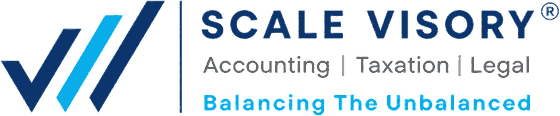
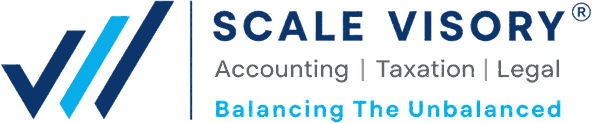
Put the login page back on the dashboard's palette
The brief's one real correction: "do NOT make the login page
predominantly cyan or bright blue" — navy primary, blue secondary, orange
rationed. Last round I took #1878e6 from the shared reference, which made
this screen a brighter blue than the app it opens.

The wordmark's accent is back to #2f6fb0 and every disc and glyph is back
on the app's own tokens (--brand-wash, --brand), so the screen inherits
the dashboard's palette instead of carrying a blue of its own. The
dark-theme override I had added exists no longer, because it existed only
to undo that hard-coded blue.

One orange, and only one: the Capture & Track disc, because that item IS
WhatsApp. The dashboard rations orange to the thing that acts — its own
mark and New Task — and a second orange here would spend the signal.
Unlock stays navy, which is what .btn.primary is everywhere else.

Also corrected while checking the brief's "do not stretch": the logo was
resized to 560x116, which is a 0.3% vertical squash of a 900x187
original. It is 592x123 now — a ratio error of 0.004% — from the same
untouched source file, with the intrinsic width/height attributes updated
on both the sign-in screen and the sidebar.

QA: 257 tests pass. 1600, 1366, 820, 390, 360 — no horizontal scroll, no
clipped text, mobile order logo → card → pitch → footer at all three
narrow widths. Login driven end to end in a browser: still works. The
security copy is the approved wording, and "encrypted" appears nowhere
[…]

diff --git a/wa-task-assistant/frontend/src/styles.css b/wa-task-assistant/frontend/src/styles.css
@@ -1606,12 +1606,12 @@ button.chip.ghost:hover { border-color: var(--brand); color: var(--brand); }
    * read as one block, and the split in the name is what makes it a wordmark
    * rather than a heading.
    */
-  --hero-blue: #1878e6;
+  --hero-blue: #2f6fb0;
 }
 @media (prefers-color-scheme: dark) {
-  :root:not([data-theme="light"]) .login-hero { --hero-blue: #6fb2f5; }
+  :root:not([data-theme="light"]) .login-hero { --hero-blue: #7cb1e4; }
 }
-:root[data-theme="dark"] .login-hero { --hero-blue: #6fb2f5; }
+:root[data-theme="dark"] .login-hero { --hero-blue: #7cb1e4; }
 /*
  * The logo's own geometry, oversized and nearly invisible: three diagonals at
  * the mark's angle, laid across the panel. Repeating-linear-gradient rather
@@ -1703,8 +1703,16 @@ button.chip.ghost:hover { border-color: var(--brand); color: var(--brand); }
 .hero-ico {
   flex: none; width: 44px; height: 44px; border-radius: 50%;
   display: grid; place-items: center;
-  background: #e4effc; color: #1878e6;
+  background: var(--brand-wash); color: var(--brand);
 }
+/*
+ * One orange, on the WhatsApp item and nowhere else.
+ *
+ * The dashboard rations orange to the thing that acts - the app's own mark and
+ * the New Task button - so on this page it marks the one feature that IS
+ * WhatsApp. A second orange anywhere here would spend the signal.
+ */
+.hero-ico.wa { background: var(--accent-wash); color: var(--accent); }
 .login-secure .icon { stroke-width: 2; }
 .hero-points strong { display: block; font-size: 1rem; color: var(--text); }
 .hero-points small { display: block; font-size: .86rem; color: var(--muted); }
@@ -1795,15 +1803,6 @@ button.chip.ghost:hover { border-color: var(--brand); color: var(--brand); }
 }
 :root[data-theme="dark"] .pane-desk { opacity: .12; }
 
-/* The bright discs are for the light ground; on dark they become a hole. */
-@media (prefers-color-scheme: dark) {
-  :root:not([data-theme="light"]) .hero-ico,
-  :root:not([data-theme="light"]) .login-badge { background: var(--brand-wash); color: var(--brand); }
-  :root:not([data-theme="light"]) .safe-ico { color: var(--brand); }
-}
-:root[data-theme="dark"] .hero-ico,
-:root[data-theme="dark"] .login-badge { background: var(--brand-wash); color: var(--brand); }
-:root[data-theme="dark"] .safe-ico { color: var(--brand); }
 
 .pane-script, .pane-foot { position: absolute; z-index: 3; margin: 0; color: var(--muted); }
 .pane-script {
@@ -1840,7 +1839,7 @@ button.chip.ghost:hover { border-color: var(--brand); color: var(--brand); }
 .login-badge {
   display: grid; place-items: center;
   width: 54px; height: 54px; border-radius: 50%; margin-bottom: 20px;
-  background: #e4effc; color: #1878e6;
+  background: var(--brand-wash); color: var(--brand);
 }
 .login-card h2 {
   font-family: Archivo, sans-serif; font-weight: 700;
@@ -1935,7 +1934,7 @@ button.chip.ghost:hover { border-color: var(--brand); color: var(--brand); }
   padding: 12px 13px; border-radius: 9px;
   background: var(--brand-wash); border: 1px solid var(--line);
 }
-.safe-ico { flex: none; color: #1878e6; margin-top: 1px; }
+.safe-ico { flex: none; color: var(--brand); margin-top: 1px; }
 .login-safe strong { display: block; font-size: .84rem; color: var(--text); }
 .login-safe small {
   display: block; font-size: .76rem; line-height: 1.45; color: var(--text-2);

diff --git a/wa-task-assistant/frontend/src/components/Login.jsx b/wa-task-assistant/frontend/src/components/Login.jsx
@@ -34,7 +34,7 @@ import Icon from './Icon.jsx';
 const DESK = ['/brand/desk.jpg', '/brand/desk.jpeg', '/brand/desk.png', '/brand/desk.webp'];
 
 const POINTS = [
-  { icon: 'whatsapp', title: 'Capture & Track', note: 'All your WhatsApp tasks in one place' },
+  { icon: 'whatsapp', title: 'Capture & Track', note: 'All your WhatsApp tasks in one place', accent: true },
   { icon: 'clipboard', title: 'Never Miss a Follow-up', note: 'Stay updated with automatic reminders' },
   { icon: 'chart', title: 'Be More Productive', note: 'Turn conversations into results' },
   { icon: 'shield', title: 'Secure & Reliable', note: 'Your data is safe with us' },
@@ -71,13 +71,13 @@ export default function Login({ onSubmit, hadToken }) {
               className="on-light"
               src="/brand/scalevisory.png"
               alt="Scale Visory — Accounting, Taxation, Legal. Balancing the unbalanced."
-              width="560" height="116"
+              width="592" height="123"
             />
             <img
               className="on-dark"
               src="/brand/scalevisory-light.png"
               alt="" aria-hidden="true"
-              width="560" height="116"
+              width="592" height="123"
             />
           </div>
           <p className="hero-steps">
@@ -97,7 +97,9 @@ export default function Login({ onSubmit, hadToken }) {
           <ul className="hero-points">
             {POINTS.map((point) => (
               <li key={point.title}>
-                <span className="hero-ico"><Icon name={point.icon} size={21} strokeWidth={2.2} /></span>
+                <span className={`hero-ico ${point.accent ? 'wa' : ''}`}>
+                  <Icon name={point.icon} size={21} strokeWidth={2.2} />
+                </span>
                 <span>
                   <strong>{point.title}</strong>
                   <small>{point.note}</small>

diff --git a/wa-task-assistant/frontend/src/components/Sidebar.jsx b/wa-task-assistant/frontend/src/components/Sidebar.jsx
@@ -266,7 +266,7 @@ export default function Sidebar({
             <img
               src="/brand/scalevisory-light.png"
               alt="Scale Visory"
-              width="560" height="116"
+              width="592" height="123"
             />
           </div>
         </div>
